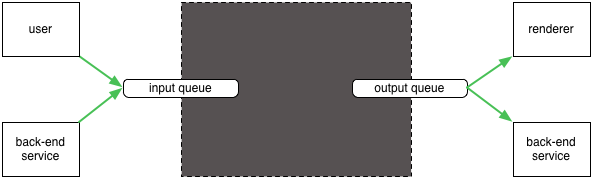
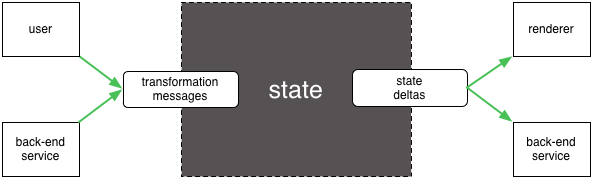
update overview

diff --git a/documentation/application-overview.md b/documentation/application-overview.md
@@ -19,11 +19,52 @@ title: Application Overview
 
 This document is a high-level description of the key ideas behind
 pedestal-app. Detailed documentation of each feature will be provided as
-Pedestal becomes more mature. This document, in addition to the
-pedestal-app tutorial should be enough to get stated.
+pedestal-app becomes more mature. This document, in addition to the
+pedestal-app tutorial should be enough to get started.
 
 
-### Why Pedestal?
+### Why Pedestal for applications?
+
+Pedestal-app provides a clean architecture for creating large,
+interactive, single-page applications in the browser.
+
+Creating large single-page applications is hard for several reasons
+
+* lots of interdependent state
+* views must be kept in sync with state
+* the DOM is always trying to kill you
+* events and callbacks can easily lead to a hairball
+* testing is difficult
+
+For large applications, this is difficult to deal with even when a
+user interface only has to respond to inputs from a single user. The
+problem is compounded when we add interactivity. An application can
+now receive inputs from multiple sources. Change becomes the constant
+state of things and efficiently keeping everything in sync is
+difficult.
+
+The fundamental problem is this: when something changes, what else
+needs to change?
+
+Existing client-side frameworks may help with one small part of this
+problem and in some cases can be used along side Pedestal. Most
+approaches to managing state involve object oriented techniques which
+lead to unnecessarily confusing abstractions and webs of
+interconnected mutable objects. Existing frameworks are also heavily
+entangled with the details of the web, details such as URLs, HTTP and
+JavaScript.
+
+Pedestal-app's approach to handling this complexity is not tied to the
+web. It is a general approach for creating client applications which
+could work just as well on the desktop as on the web. Pedestal-app can
+be used equally well when rendering to the DOM or controlling a
+complex visualization or driving JavaScript widgets. 
+
+Pedestal applications are built from immutable data, functions and
+queues.
+
+
+### Influences
 
 Pedestal-app has two main influences: Clojure and distributed systems.
 
@@ -89,21 +130,23 @@ messages to or put messages on the input queue.
 
 ### Why use queues?
 
-Queues separate application concerns from the complexity of I/O in the
-browser. From the applications perspective, all input comes in as a
+Queues separate application concerns. They eliminate the direct
+connection between callback functions which are triggered by events
+and all of the code which deals with state transitions. Queues
+separate application concerns from the complexity of I/O in the
+browser. From the application's perspective, all input comes in as a
 stream of messages and all output is placed on a queue and quickly
 forgotten.
 
 The black box above contains all of the code which determines what
-this application actually does. This code controls what happens and
-when it should happen. Queues are used to isolate this code from
-everything else. The code inside the black box doesn't know anything
-about the DOM or even that it is running in a browser. This means that
-this code can be run when the DOM is not available, for example, in a
-Web Worker. It can also be run on the server and tested from Clojure.
+this application actually does. The code inside the black box doesn't
+know anything about the DOM or even that it is running in a
+browser. This means that this code can be run when the DOM is not
+available, for example, in a Web Worker. It can also be run on the
+server and tested from Clojure.
 
-Testing this component is easy. We can send it fabricated data and
-examine the output data. There are not dependencies on any web
+Testing this is now easy. We can send it fabricated data and
+examine the output data. There are no dependencies on any web
 technology.
 
 Using queues for input and output also allows us to be flexible in
@@ -220,23 +263,6 @@ what operations may be performed on what parts of the data
 model. Without this table, any operation could be performed anywhere
 and this may not make sense. It also allows you to clearly define
 which functions may be used to update the data model.
-
-
-### Aside
-
-This may not be a good enough reason to continue using the transform
-routing table. A more powerful approach to updating the data model
-would involve removing this table and then changing the message format
-to map to Clojure's reference update semantics.
-
-```clojure
-'(update-in [:rooms 1 :guests] add-name "Alice")
-;; kind of like
-(send app update-in [:rooms 1 :guests] add-name "Alice")
-```
-
-This would allow for arbitrary functions to be used to update the data
-model.
 
 
 ### Reporting changes to the data model with emit functions
@@ -378,6 +404,8 @@ the application's state but are not rendered.
 
 
 ### Derived data
+
+(derive enforces ordering of operations)
 
 So far we have seen one way to change the data model, the transform
 function. This allows us to change the data model based on input from
@@ -544,6 +572,15 @@ Continue functions are used to support recursion. Messages produced by
 a continue function are fed back into the dataflow. Messages can
 either be fed in within the same transaction or placed on the input
 queue allowing the current transaction to complete.
+
+
+### Why Dataflow?
+
+### Why are there five dataflow functions?
+
+### Why do dataflow functions take one generic argument?
+
+It is like the Datomic transaction report
 
 ## Rendering
 
